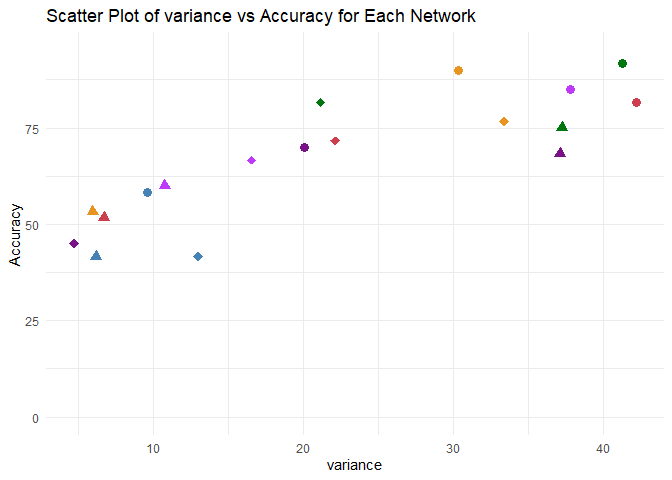
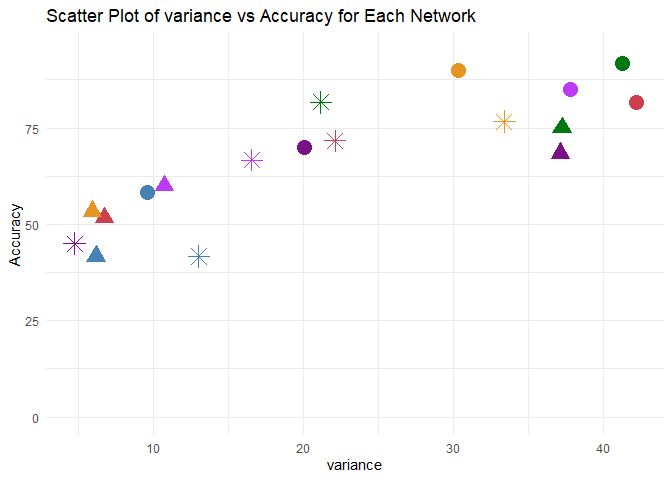
changing the pattern type and the size

diff --git a/figures and statistical analysis/fig5_networks_gradients_range.md b/figures and statistical analysis/fig5_networks_gradients_range.md
@@ -212,14 +212,14 @@ print(cor_test)
 ``` r
 # Create scatter plots for each network
 plot <- ggplot(all_var_acc, aes(x = as.numeric(variance), y = as.numeric(mean_acc), color = Network, shape = Gradient)) +
-  geom_point(size=3) +
+  geom_point(size=5) +
   labs(title = "Scatter Plot of variance vs Accuracy for Each Network",
        x = "variance",
        y = "Accuracy") +
   theme_minimal() +
   scale_fill_manual(values = c('#CD3E4E','#E69422', '#BE3AFA', '#00760E', '#781286', '#4682B4')) +
   scale_color_manual(values = c('#CD3E4E','#E69422', '#BE3AFA', '#00760E', '#781286', '#4682B4')) +
-  scale_shape_manual(values = c("G1" = 16, "G2" = 17, "G3" = 18)) +
+  scale_shape_manual(values = c("G1" = 16, "G2" = 17, "G3" = 8)) +
   scale_y_continuous(limits=c(0, 95), breaks=seq(0,75,by=25))+
   theme(legend.position = "none")
   # Ensures y-axis is treated as continuous
@@ -428,17 +428,18 @@ cole_custom_colors <- c(
 )
 # Create scatter plots for each network
 plot<- ggplot(cole_all_var_acc, aes(x = as.numeric(variance), y = as.numeric(mean_acc), color = Network, shape = Gradient)) +
-  geom_point(size=3) +
+  geom_point(size=5) +
   labs(title = "Scatter Plot of variance vs Accuracy for Each Network",
        x = "variance",
        y = "Accuracy") +
   theme_minimal() +
     scale_fill_manual(values = cole_custom_colors) +
   scale_color_manual(values = cole_custom_colors) +
-  scale_shape_manual(values = c("G1" = 16, "G2" = 17, "G3" = 18)) +
+  scale_shape_manual(values = c("G1" = 16, "G2" = 17, "G3" = 8)) +
   scale_x_continuous(limits=c(0, 75), breaks=seq(0,75,by=25))+
-  scale_y_continuous(limits=c(0, 90), breaks=seq(0,75,by=25))
-  ggsave(file="COLE_variance_num_accuracy_correlation_new_with_fixed_limits.png", plot, width=6, height=5, dpi=400)
+  scale_y_continuous(limits=c(0, 90), breaks=seq(0,75,by=25))+
+  theme(legend.position = "none")
+  ggsave(file="COLE_variance_num_accuracy_correlation_new_with_fixed_limits_V2.png", plot, width=6, height=5, dpi=400)
 plot
 ```
 
